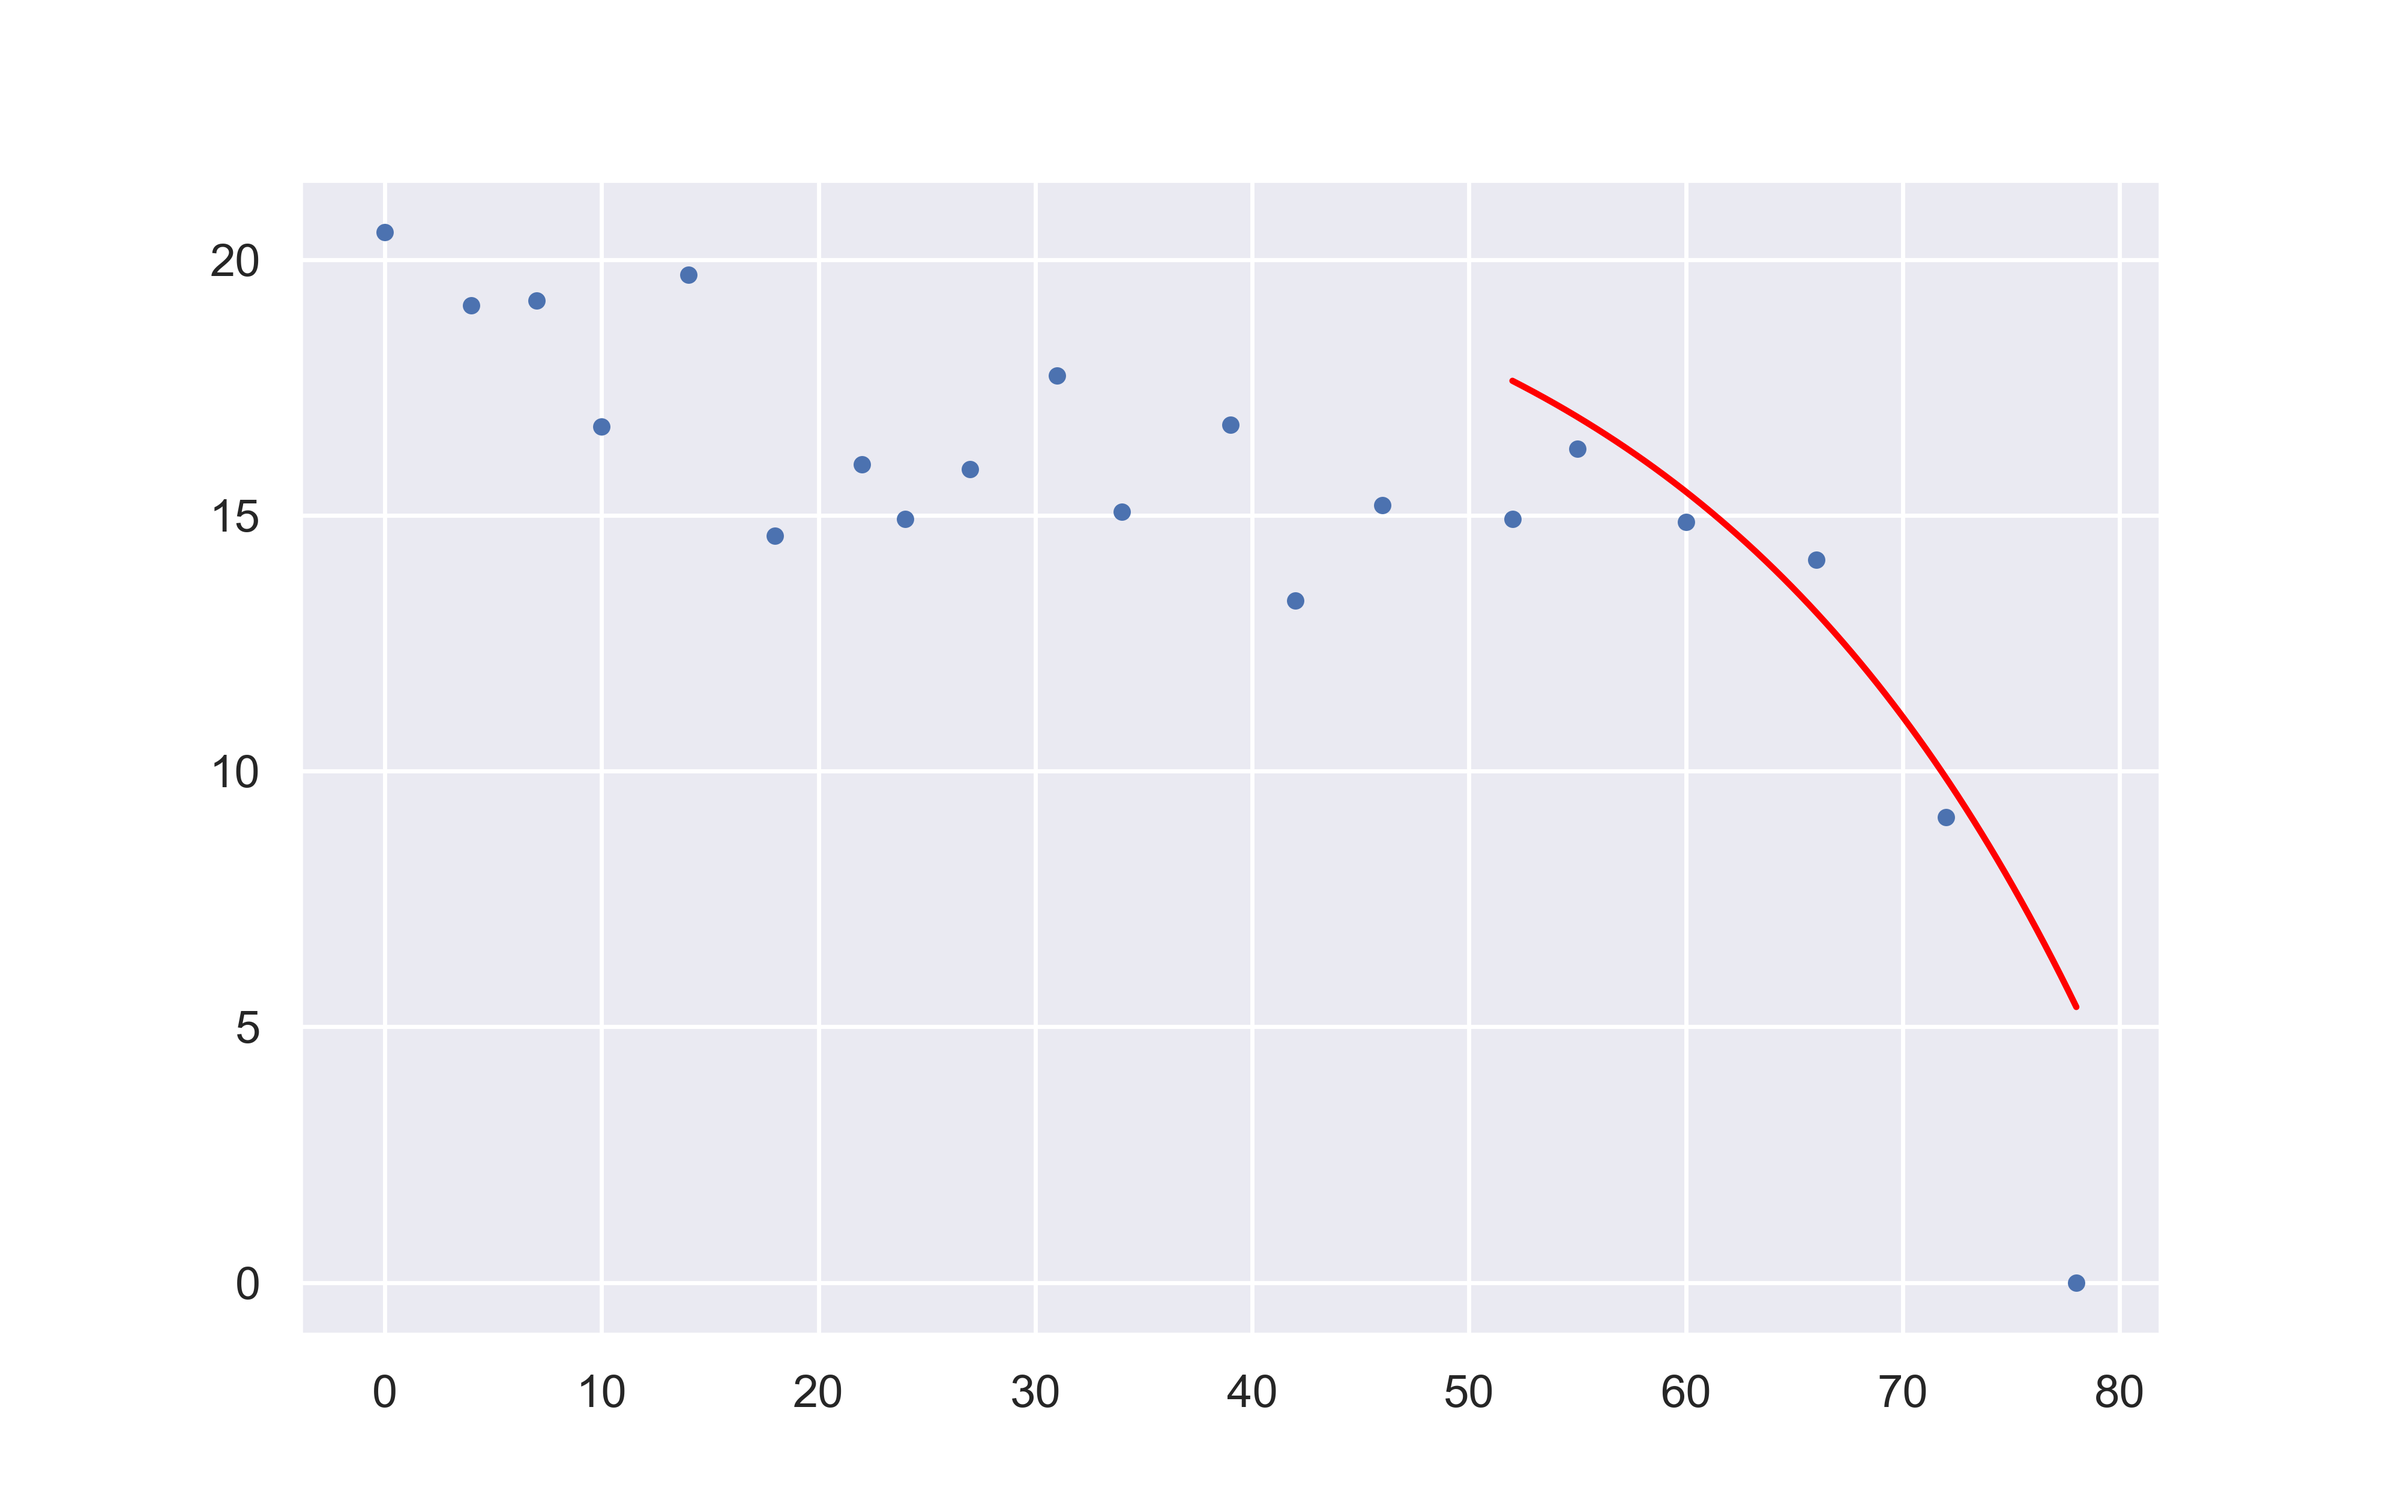
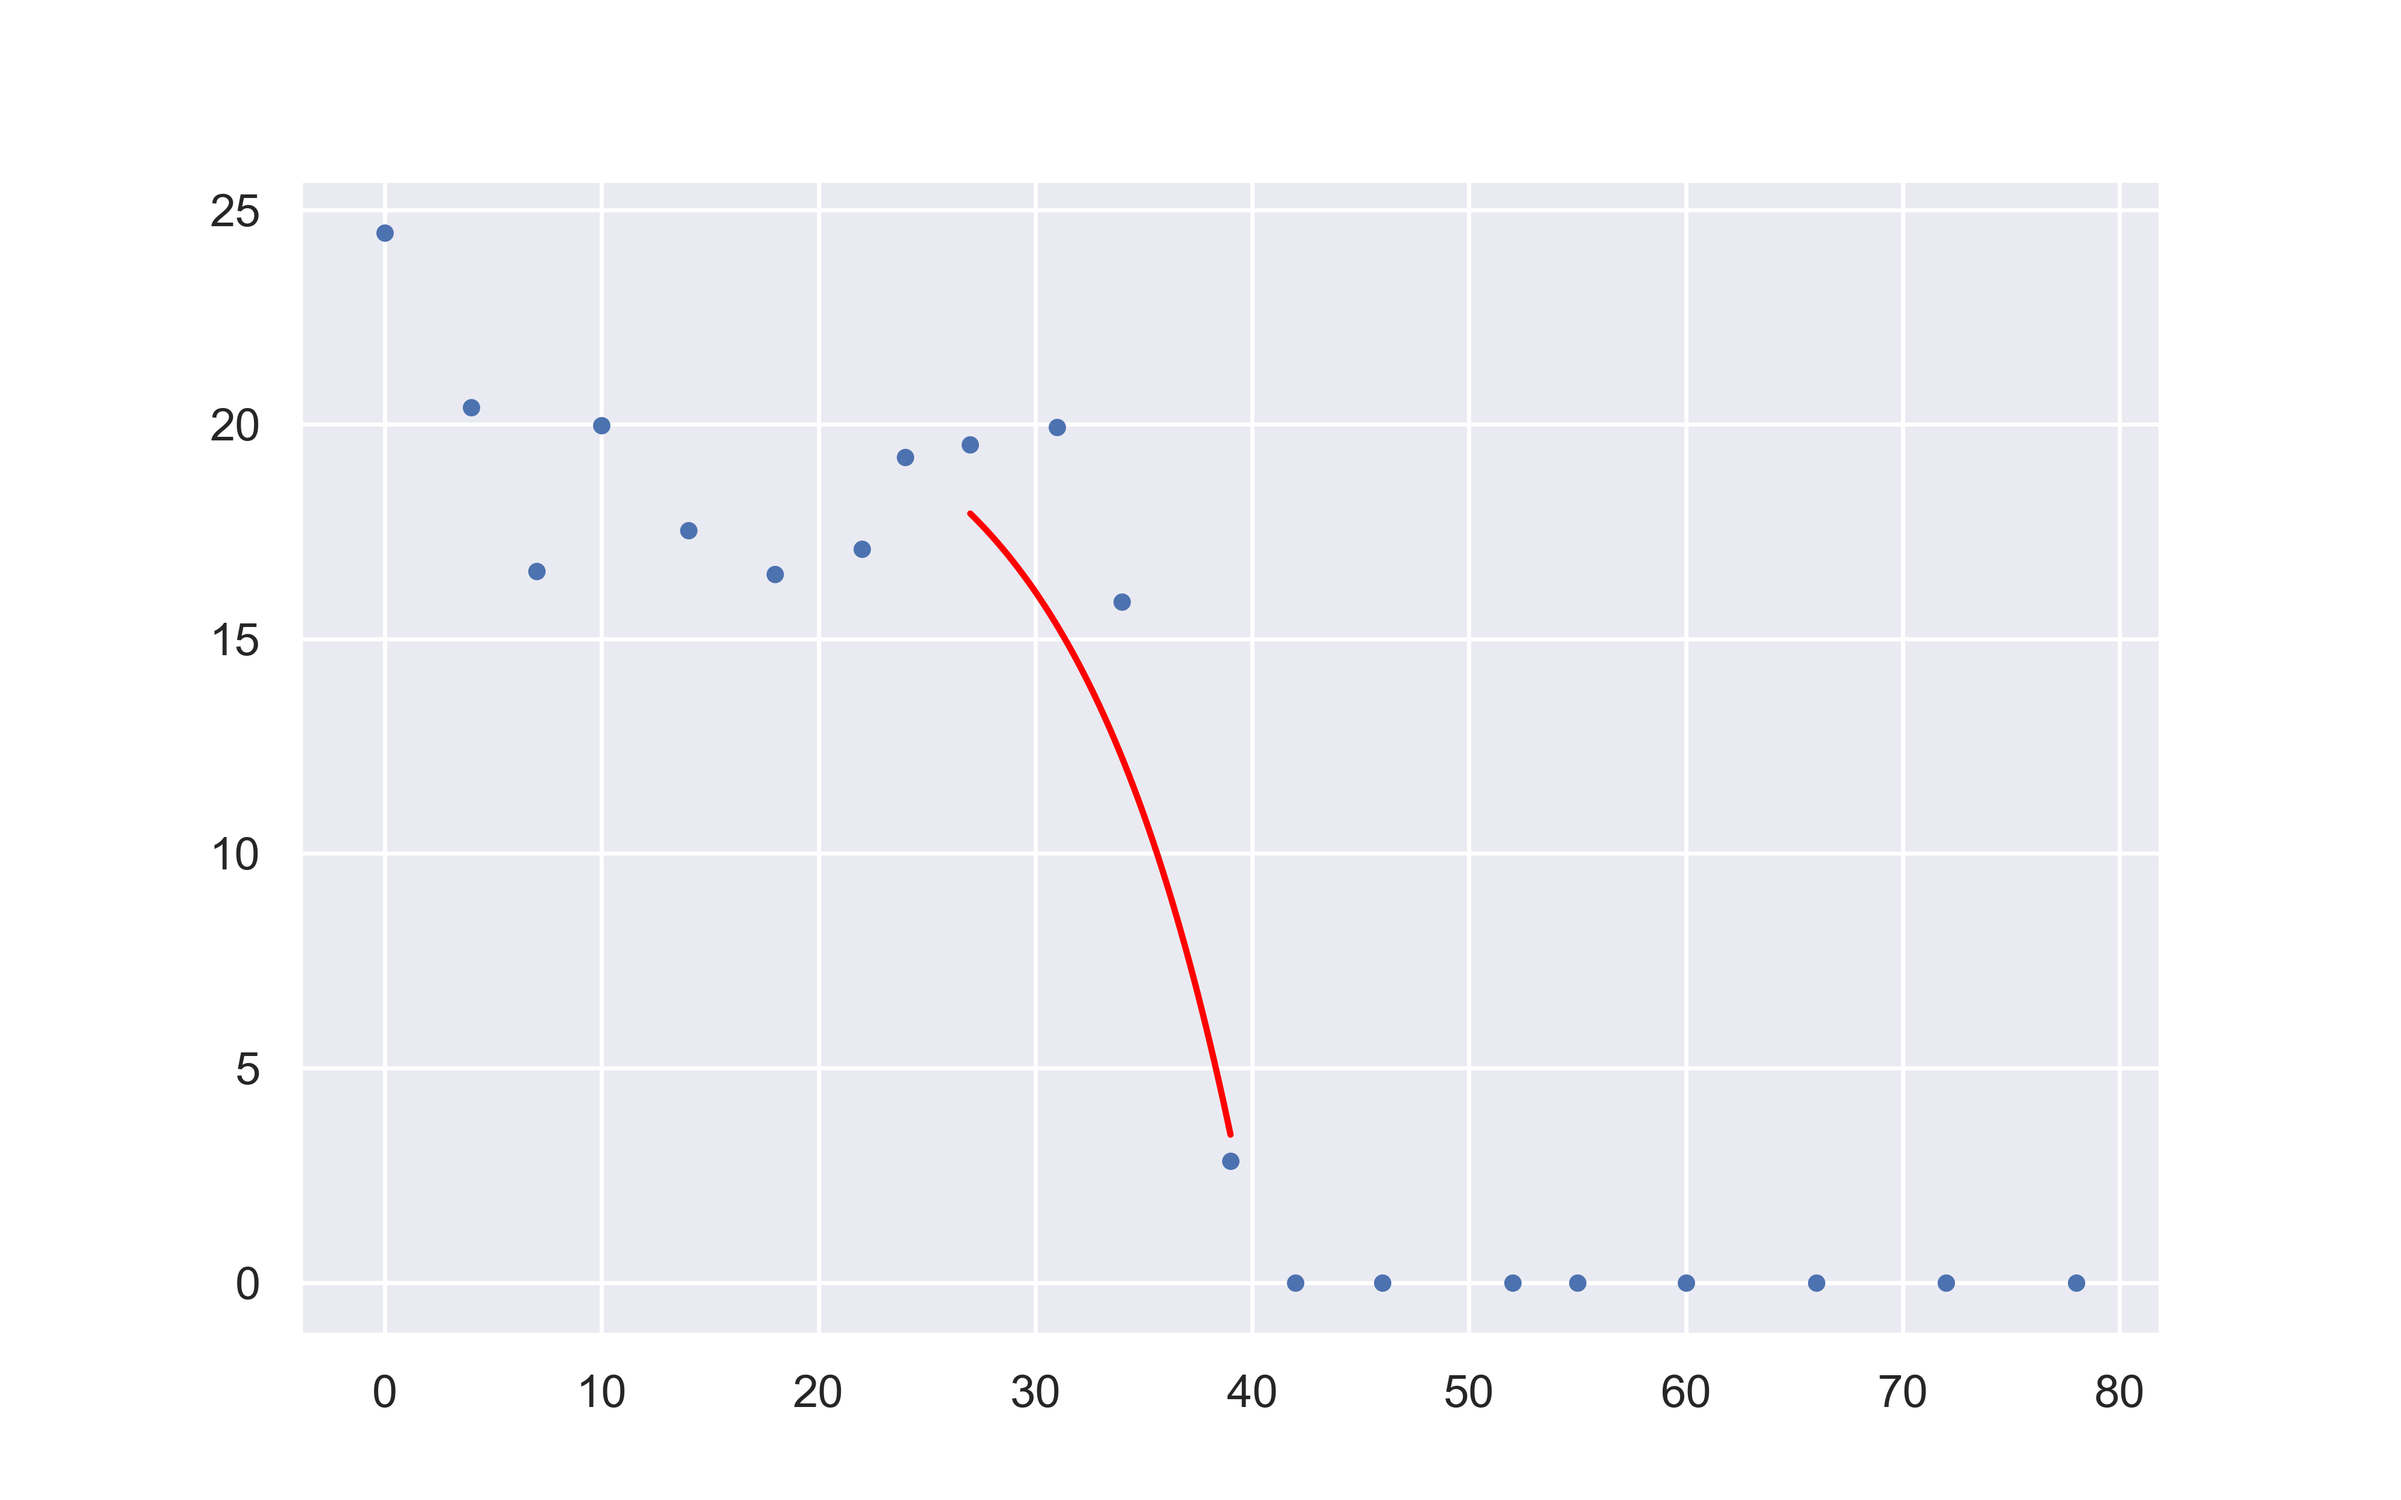
sig

diff --git a/sigmoid.py b/sigmoid.py
@@ -1,50 +1,70 @@
 import numpy as np
 from scipy.optimize import curve_fit
 import data
+import matplotlib.pyplot as plt
 
 days = np.array(data.days)
 mc1 = np.array(data.mc1)
 
 
-def sigmoid(x, L, x0, k, b):
-    y = L / (1 + np.exp(-k * (x - x0))) + b
-    return y
+def sigmoid_fit(days, mc1):
+    def sigmoid(x, L, x0, k, b):
+        y = L / (1 + np.exp(-k * (x - x0))) + b
+        return y
+
+    def r2_score(y, y_pred):
+        ss_res = np.sum((y - y_pred) ** 2)
+        ss_tot = np.sum((y - np.mean(y)) ** 2)
+        r2 = 1 - (ss_res / ss_tot)
+        return r2
+
+    # R2スコアを最大化するグリッドサーチ
+    max_r2 = -np.inf
+    best_range = None
+    best_params = None
+
+    for start in range(len(days)):
+        for end in range(start + 1, len(days) + 1):
+            try:
+                # データ範囲の選択
+                x_data = days[start:end]
+                y_data = mc1[start:end]
+
+                # シグモイド曲線フィット
+                popt, _ = curve_fit(sigmoid, x_data, y_data, maxfev=5000)
+
+                # R2スコアの計算
+                y_pred = sigmoid(x_data, *popt)
+                r2 = r2_score(y_data, y_pred)
+
+                # 最大R2スコアの更新
+                if r2 > max_r2:
+                    max_r2 = r2
+                    best_range = (start, end)
+                    best_params = popt
+            except:
+                continue
+
+    print(f"best range: {best_range}")
+    print(f"best params: {best_params}")
+    print(f"max R2 score: {max_r2}")
+
+    # ベストフィット範囲のデータ
+    x_data_best = days[best_range[0] : best_range[1]]
+    y_data_best = mc1[best_range[0] : best_range[1]]
+    y_pred_best = sigmoid(x_data_best, *best_params)
+    return x_data_best, y_data_best, y_pred_best
 
 
-def r2_score(y, y_pred):
-    ss_res = np.sum((y - y_pred) ** 2)
-    ss_tot = np.sum((y - np.mean(y)) ** 2)
-    r2 = 1 - (ss_res / ss_tot)
-    return r2
+x_data_best, y_data_best, y_pred_best = sigmoid_fit(days, mc1)
 
-
-# R2スコアを最大化するグリッドサーチ
-max_r2 = -np.inf
-best_range = None
-best_params = None
-
-for start in range(len(days)):
-    for end in range(start + 1, len(days) + 1):
-        try:
-            # データ範囲の選択
-            x_data = days[start:end]
-            y_data = mc1[start:end]
-
-            # シグモイド曲線フィット
-            popt, _ = curve_fit(sigmoid, x_data, y_data, maxfev=5000)
-
-            # R2スコアの計算
-            y_pred = sigmoid(x_data, *popt)
-            r2 = r2_score(y_data, y_pred)
-
-            # 最大R2スコアの更新
-            if r2 > max_r2:
-                max_r2 = r2
-                best_range = (start, end)
-                best_params = popt
-        except:
-            continue
-
-print(f"best range: {best_range}")
-print(f"best params: {best_params}")
-print(f"max R2 score: {max_r2}")
+# 全データとフィット曲線のプロット
+plt.figure(figsize=(10, 6))
+plt.scatter(days, mc1, color="blue", label="Original Data")
+plt.plot(x_data_best, y_pred_best, color="red", label="Sigmoid Fit")
+plt.title("Sigmoid Fit to Data")
+plt.xlabel("Days")
+plt.ylabel("MC1 Value")
+plt.legend()
+plt.grid(True)
+plt.show()
